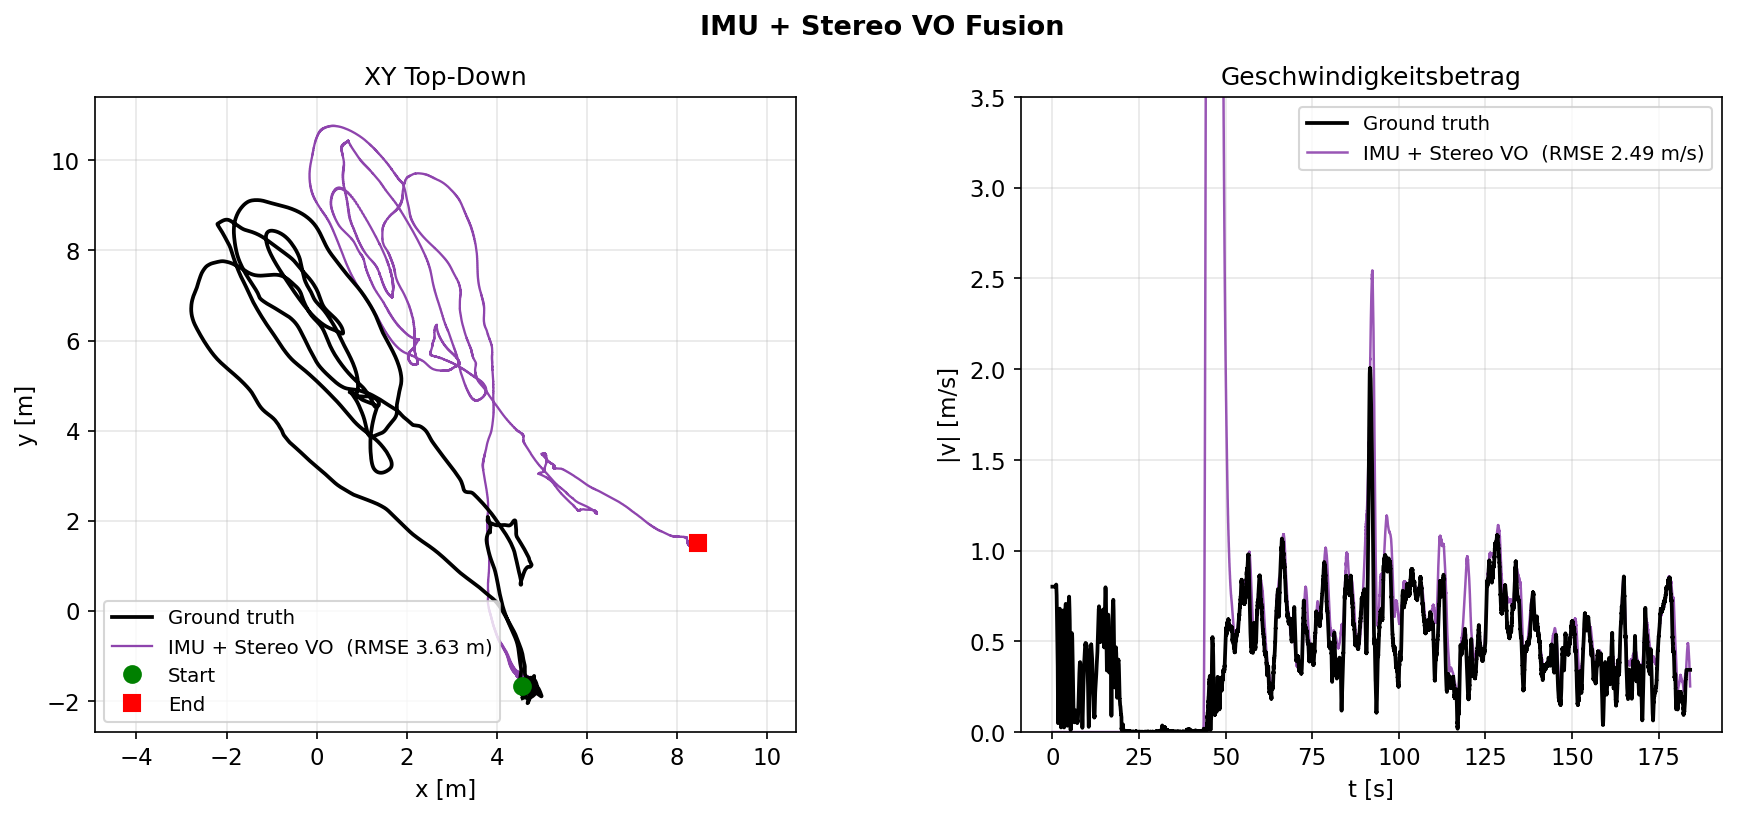
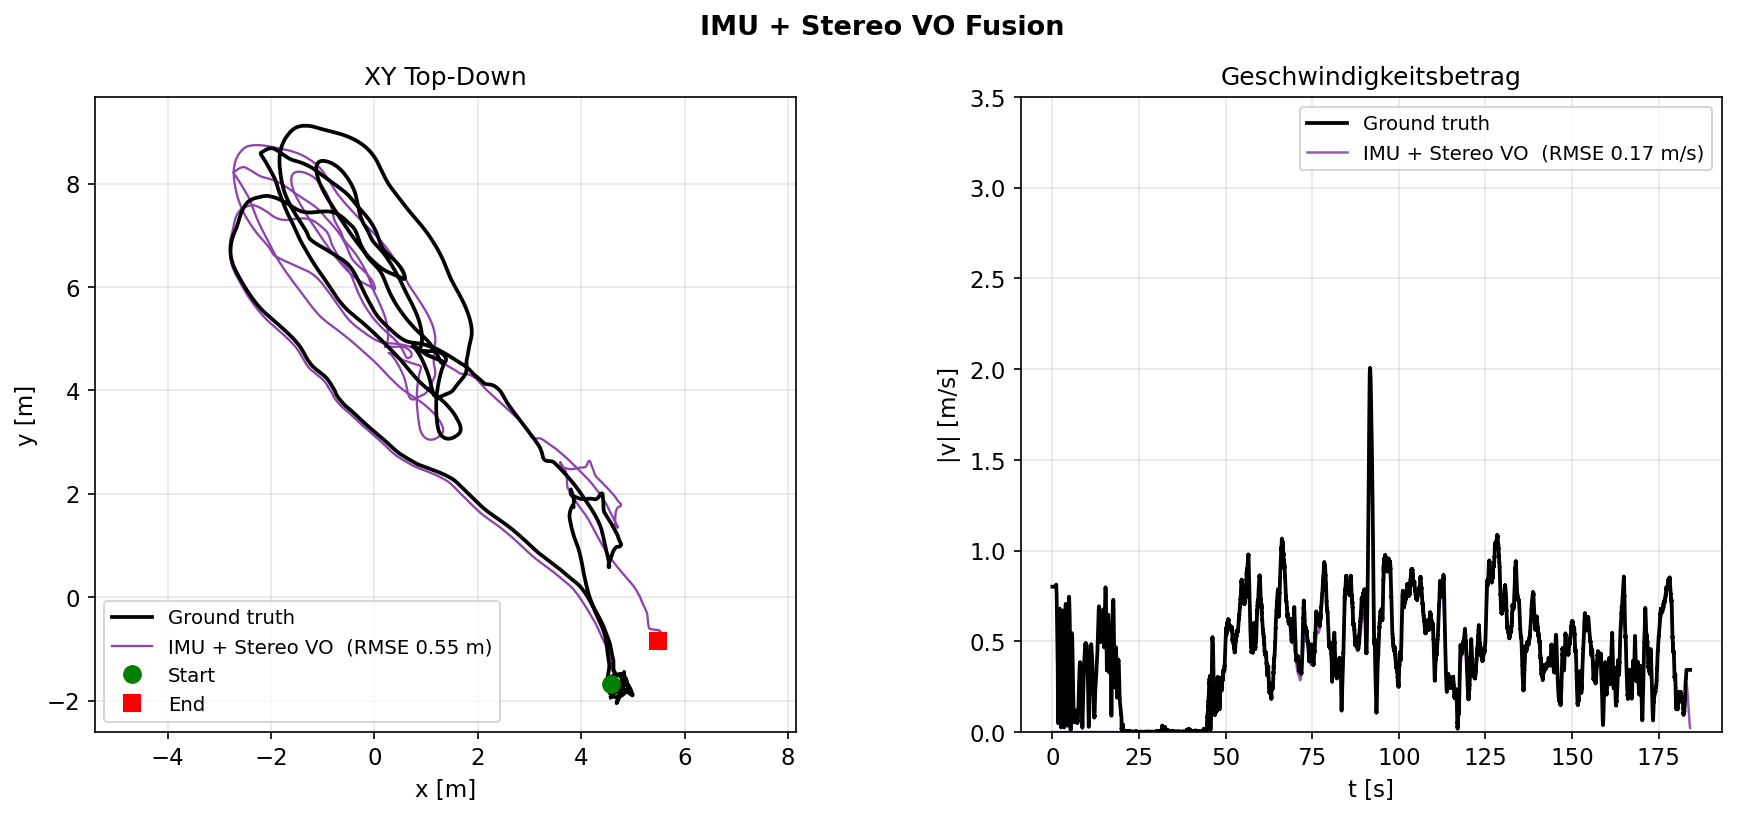
fixed wrong sign for acceleration bias formula

diff --git a/cpp/src/alignment.cpp b/cpp/src/alignment.cpp
@@ -27,13 +27,14 @@ BiasEstimate estimateBiases(const std::vector<IMUSample>& imu_data,
     // Gyro bias: when stationary, gyro should read zero, so the mean is the bias
     Eigen::Vector3d bg = sum_gyro / n;
 
-    // Accel bias: when stationary, the accelerometer measures gravity in the body
-    // frame plus bias. In world frame, gravity is (0, 0, -9.81). Rotating into
-    // body frame: g_body = R_wb^T * g_world. So:
-    //   acc_measured = g_body + ba
-    //   ba = acc_mean - R_wb^T * g_world
+    // Accel bias: when stationary the accelerometer reads the reaction force against
+    // gravity, not gravity itself — i.e. it measures specific force, which points
+    // upward at rest. In world frame, gravity g_world = (0, 0, -9.81), so the
+    // measured specific force in the body frame is R_wb^T * (-g_world). Adding bias:
+    //   acc_measured = R_wb^T * (-g_world) + ba
+    //   ba = acc_mean - R_wb^T * (-g_world)
     Eigen::Vector3d acc_mean = sum_acc / n;
-    Eigen::Vector3d ba = acc_mean - R_wb.transpose() * GRAVITY;
+    Eigen::Vector3d ba = acc_mean - R_wb.transpose() * (-GRAVITY);
 
     std::cout << "Pre-launch alignment (" << n << " IMU samples in window):\n";
     std::cout << "  bg estimate: " << bg.transpose() << "\n";
